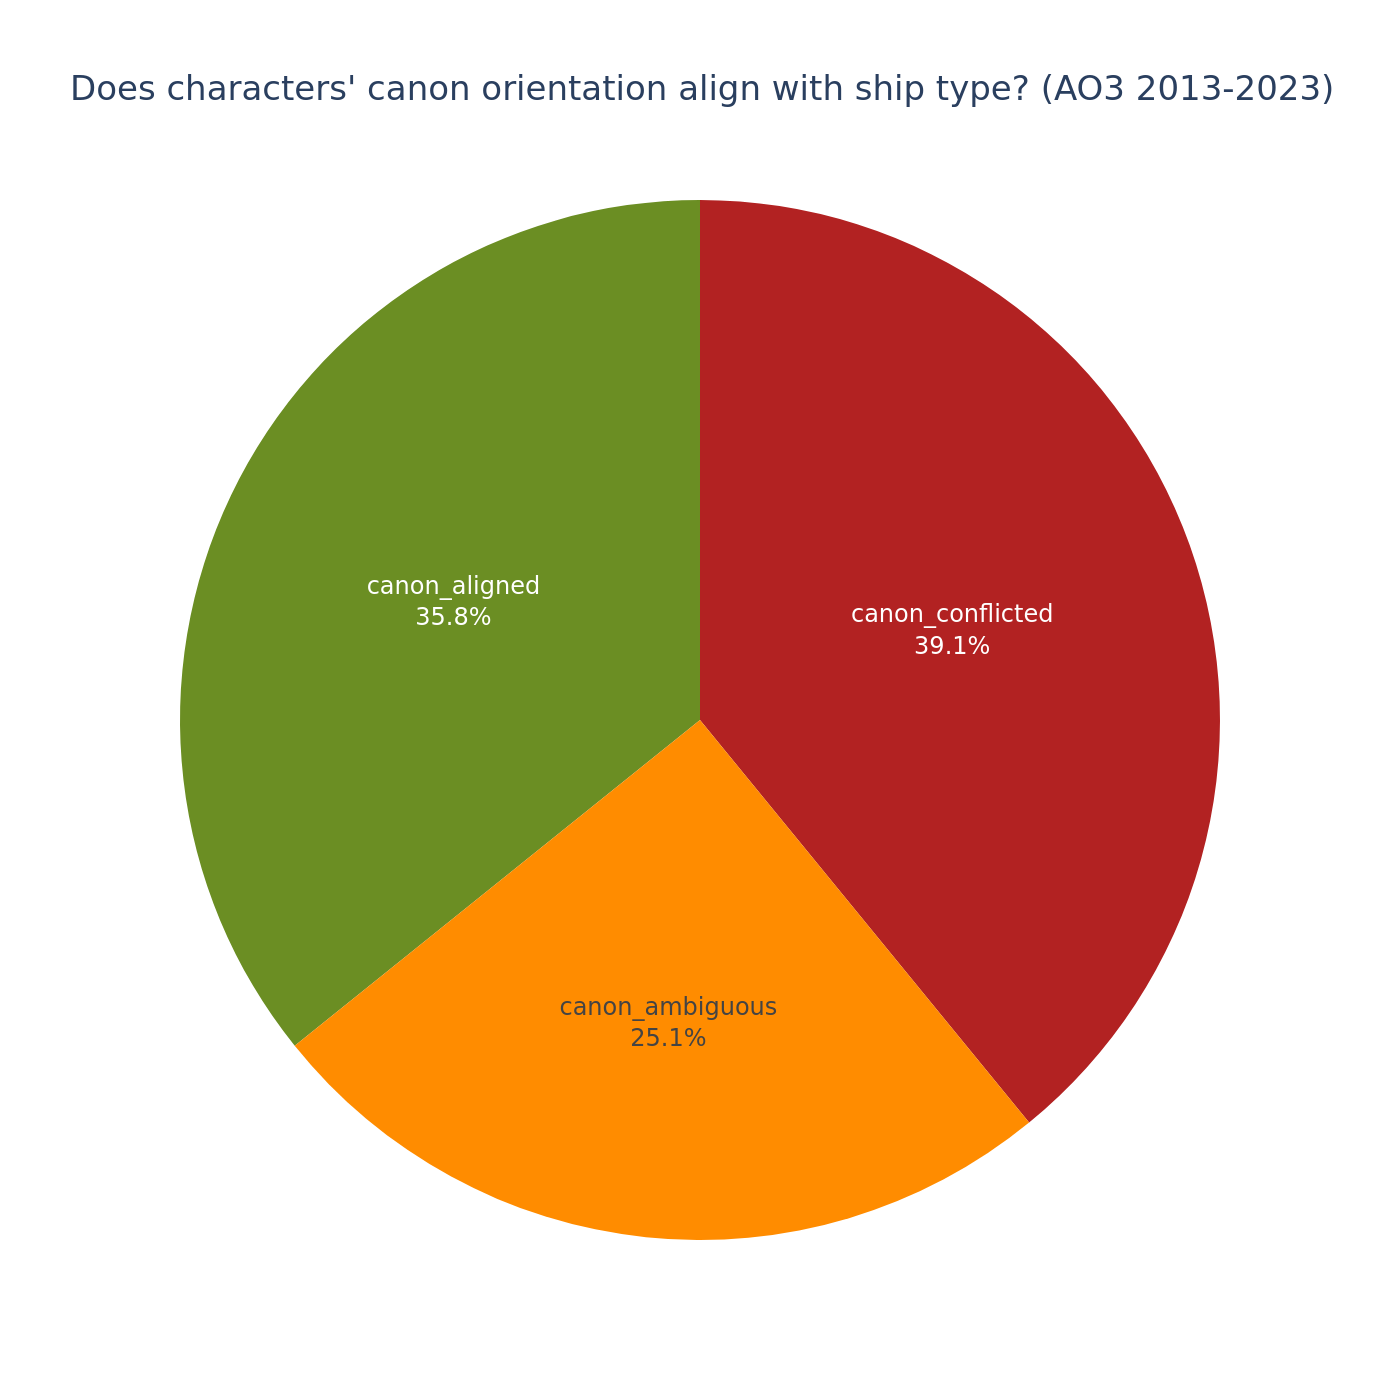
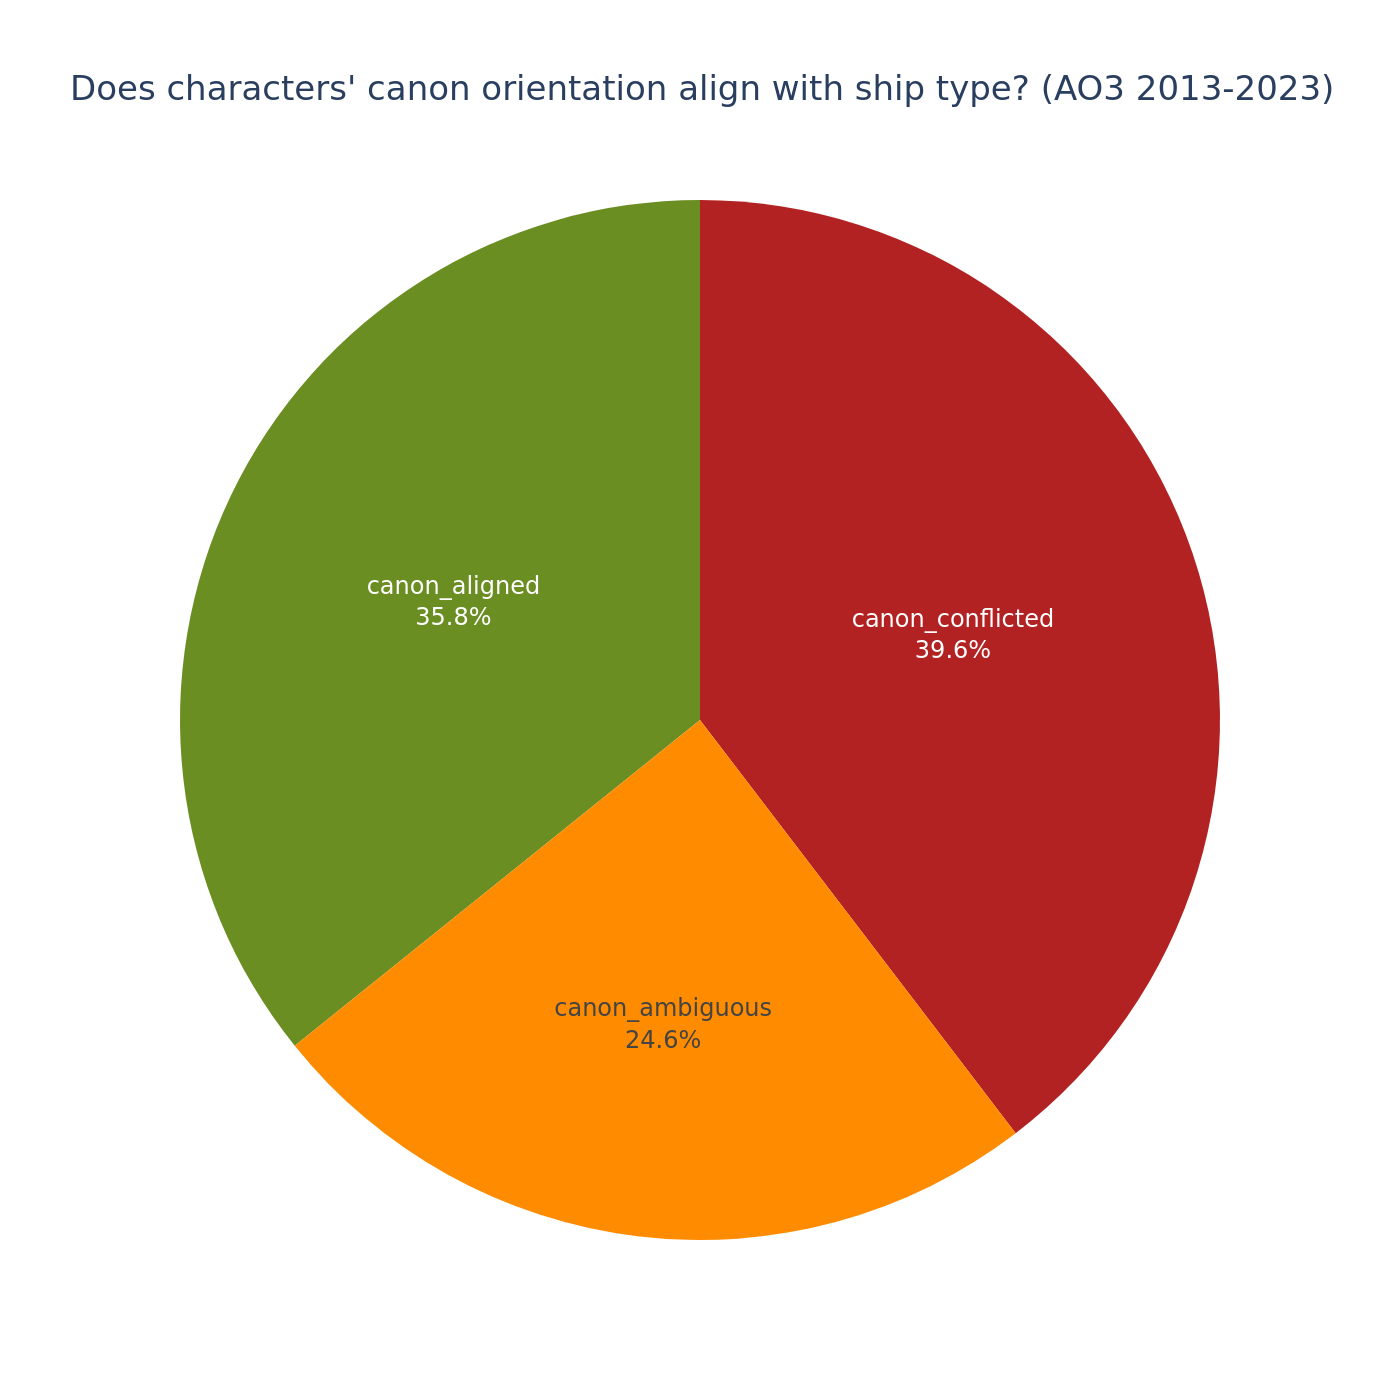
add acearo as conflicting

diff --git a/visualisation/additional_data_code/run_ships_data_code.py b/visualisation/additional_data_code/run_ships_data_code.py
@@ -52,9 +52,7 @@ incest_df = new_df.get(["No", "Yes", "Non-blood-related"]).rename(columns={
 # get canon alignment for total & ship types
 aligned_df = get_total_and_by_ship_type(assigned_ship_df, "canon_alignment")
 
-
-# TODO make pie (for totals) & stacked bar charts (for by ship type)
-# (incest one can be just for total)
+# pie & stacked bar charts for ship data
 for data_case in ["canon", "incest", "orientation_alignment"]:
     folder = "visualisation/ao3_all_data_2013_2023/ao3_all_data_charts"
 
@@ -92,3 +90,11 @@ for data_case in ["canon", "incest", "orientation_alignment"]:
 # totals (str8 ppl, queer ppl, unspecified)
 # totals by gender (str8 men, str8 women, mlm, wlw, other, unspecified men, unspecified women)
 # orientation by gender (str8, bi, gay, other, unspecified) by male/female
+
+
+# refactor/fix TODO:
+# - acearo should be counted as conflicted
+# - after we're done with these, refactor all your initial bits to 
+# later be able to run with 2024 & tumblr data
+    # I bet we can make all our parsing stuff WAY more efficient
+    # and I wanna find a solution for the multi-graph layouts

diff --git a/src/util_functions/conflicting_orientations.py b/src/util_functions/conflicting_orientations.py
@@ -78,6 +78,8 @@ def conflicting_orientations(ship_df):
         ) | (
             (new_df["clean_orientation"].str.contains("gay")) & (
             new_df["het_ship"] == True) # gay ppl in straight ships
+        ) | (
+            new_df["clean_orientation"].str.contains("acearo") # any of our fully acearo characters
         ), 
         other="canon_conflicted"
     )
